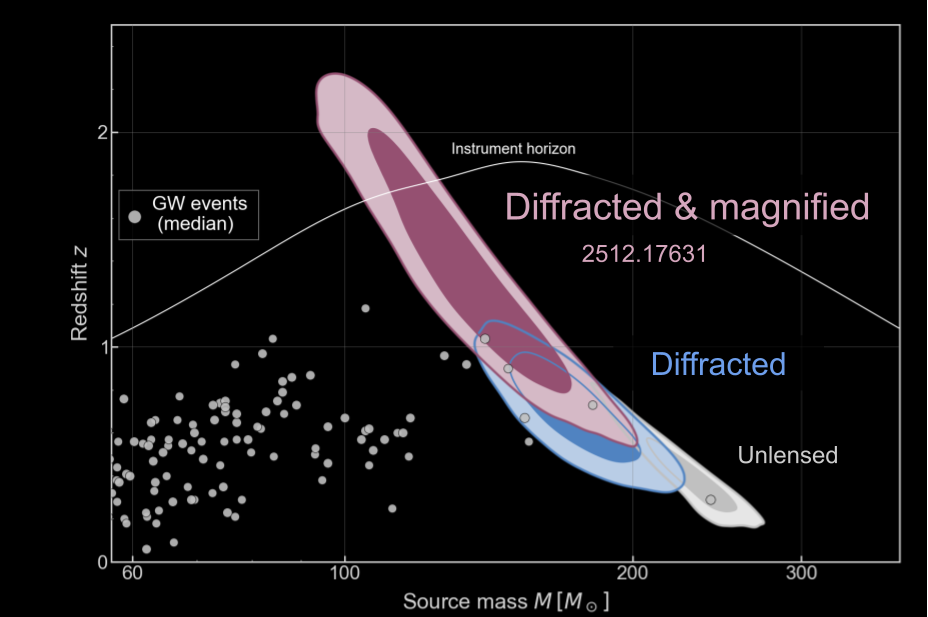
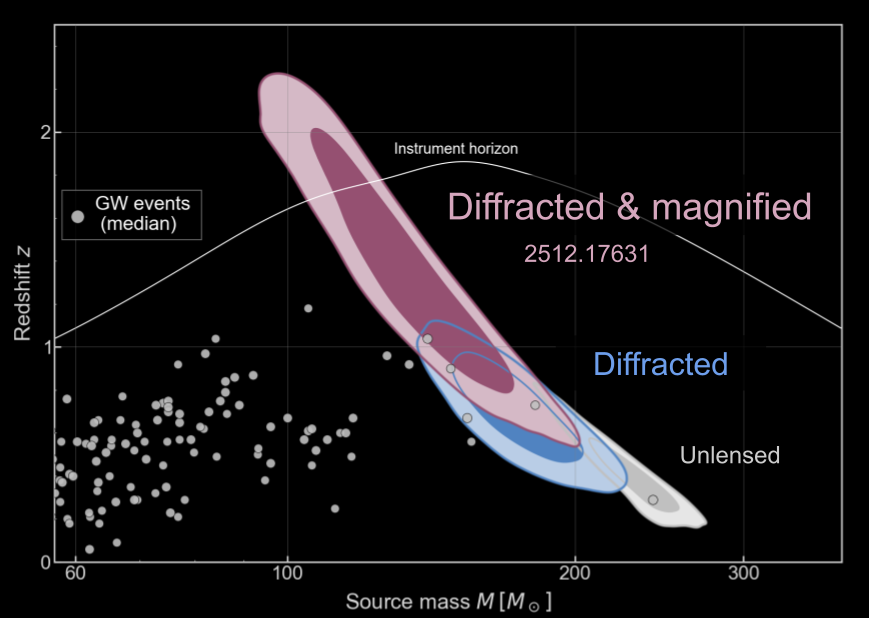
updated GW231123

diff --git a/research.html b/research.html
@@ -65,10 +65,11 @@ and
 
 <h4> <a name="pbh">Gravitational Lensing, Dark Matter and Black Holes</a> </h4>
 
-<p><img src="http://miguelzuma.github.io/imgs/no_LIGO_MACHO.jpg" alt="No LIGO MACHO" style="float: right" width= 300 HSPACE=10> 
+<p>
+<img src="http://miguelzuma.github.io/imgs/GW231123_annotation.png" alt="GW231123" style="float: right" width= 400 HSPACE=10>
 Gravitational lensing effects probe the Universe's darkest objects: black holes and dark matter halos. The lack of gravitationally magnified type Ia supernovae sets bounds on the abundance of compact objects, ruling out LIGO-Virgo black holes as the dominant dark matter component.
 Supermassive black hole binaries can produce extreme magnifications of background stars: this will allow us to discover these systems and characterize their dynamics, including the emission of gravitational waves (GWs).
-The propagation of GWs provides valuable opportunties to illuminate dark objects:
+The propagation of GWs provides valuable opportunities to illuminate dark objects:
 Lensing of GWs allows us to characterize gravitational lenses thanks to wave diffraction and interference, providing stringent limits on dark-matter objects and their morphology. My group has developed the <a href="https://github.com/miguelzuma/GLoW_public" target="_blank"> GLoW code</a> to investigate wave-optics lensing phenomena. We recently employed this framework to analyze GW231123, the first compelling candidate for a black hole merger magnified and diffracted by an object with 200-1000 M<sub>☉</sub>.
 <p>
 <b><i>Selected publications:</i></b>
